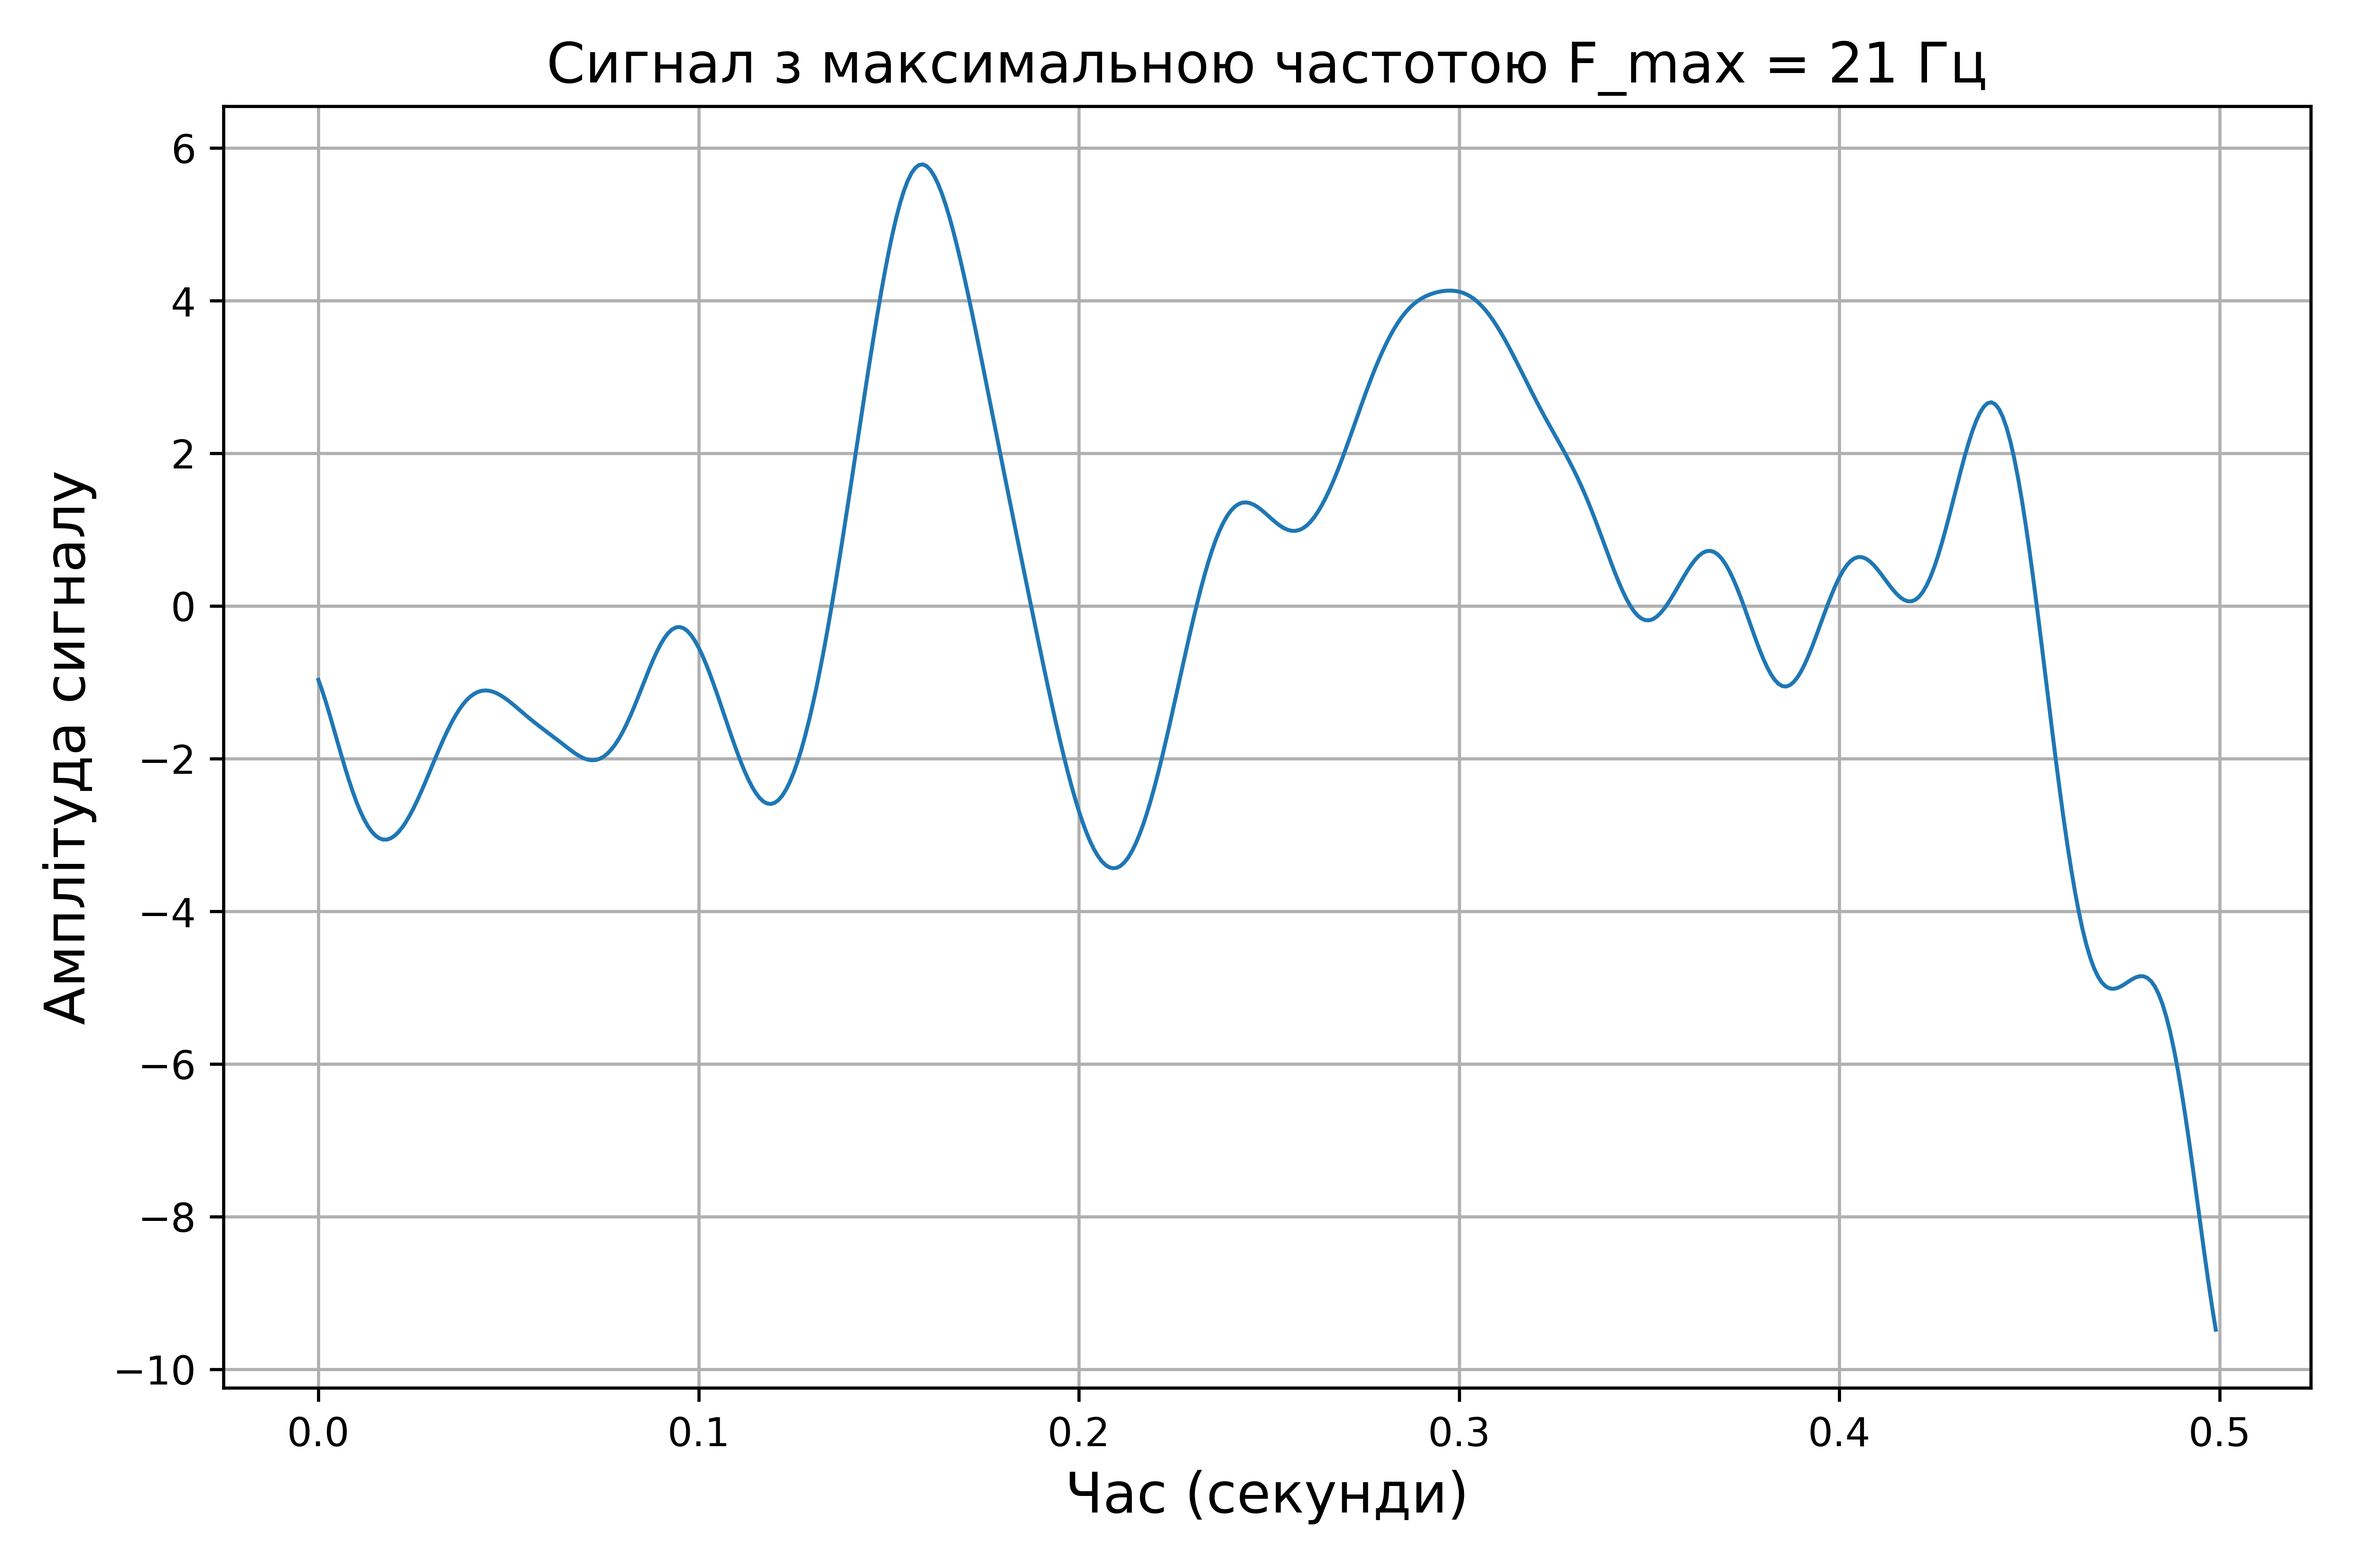
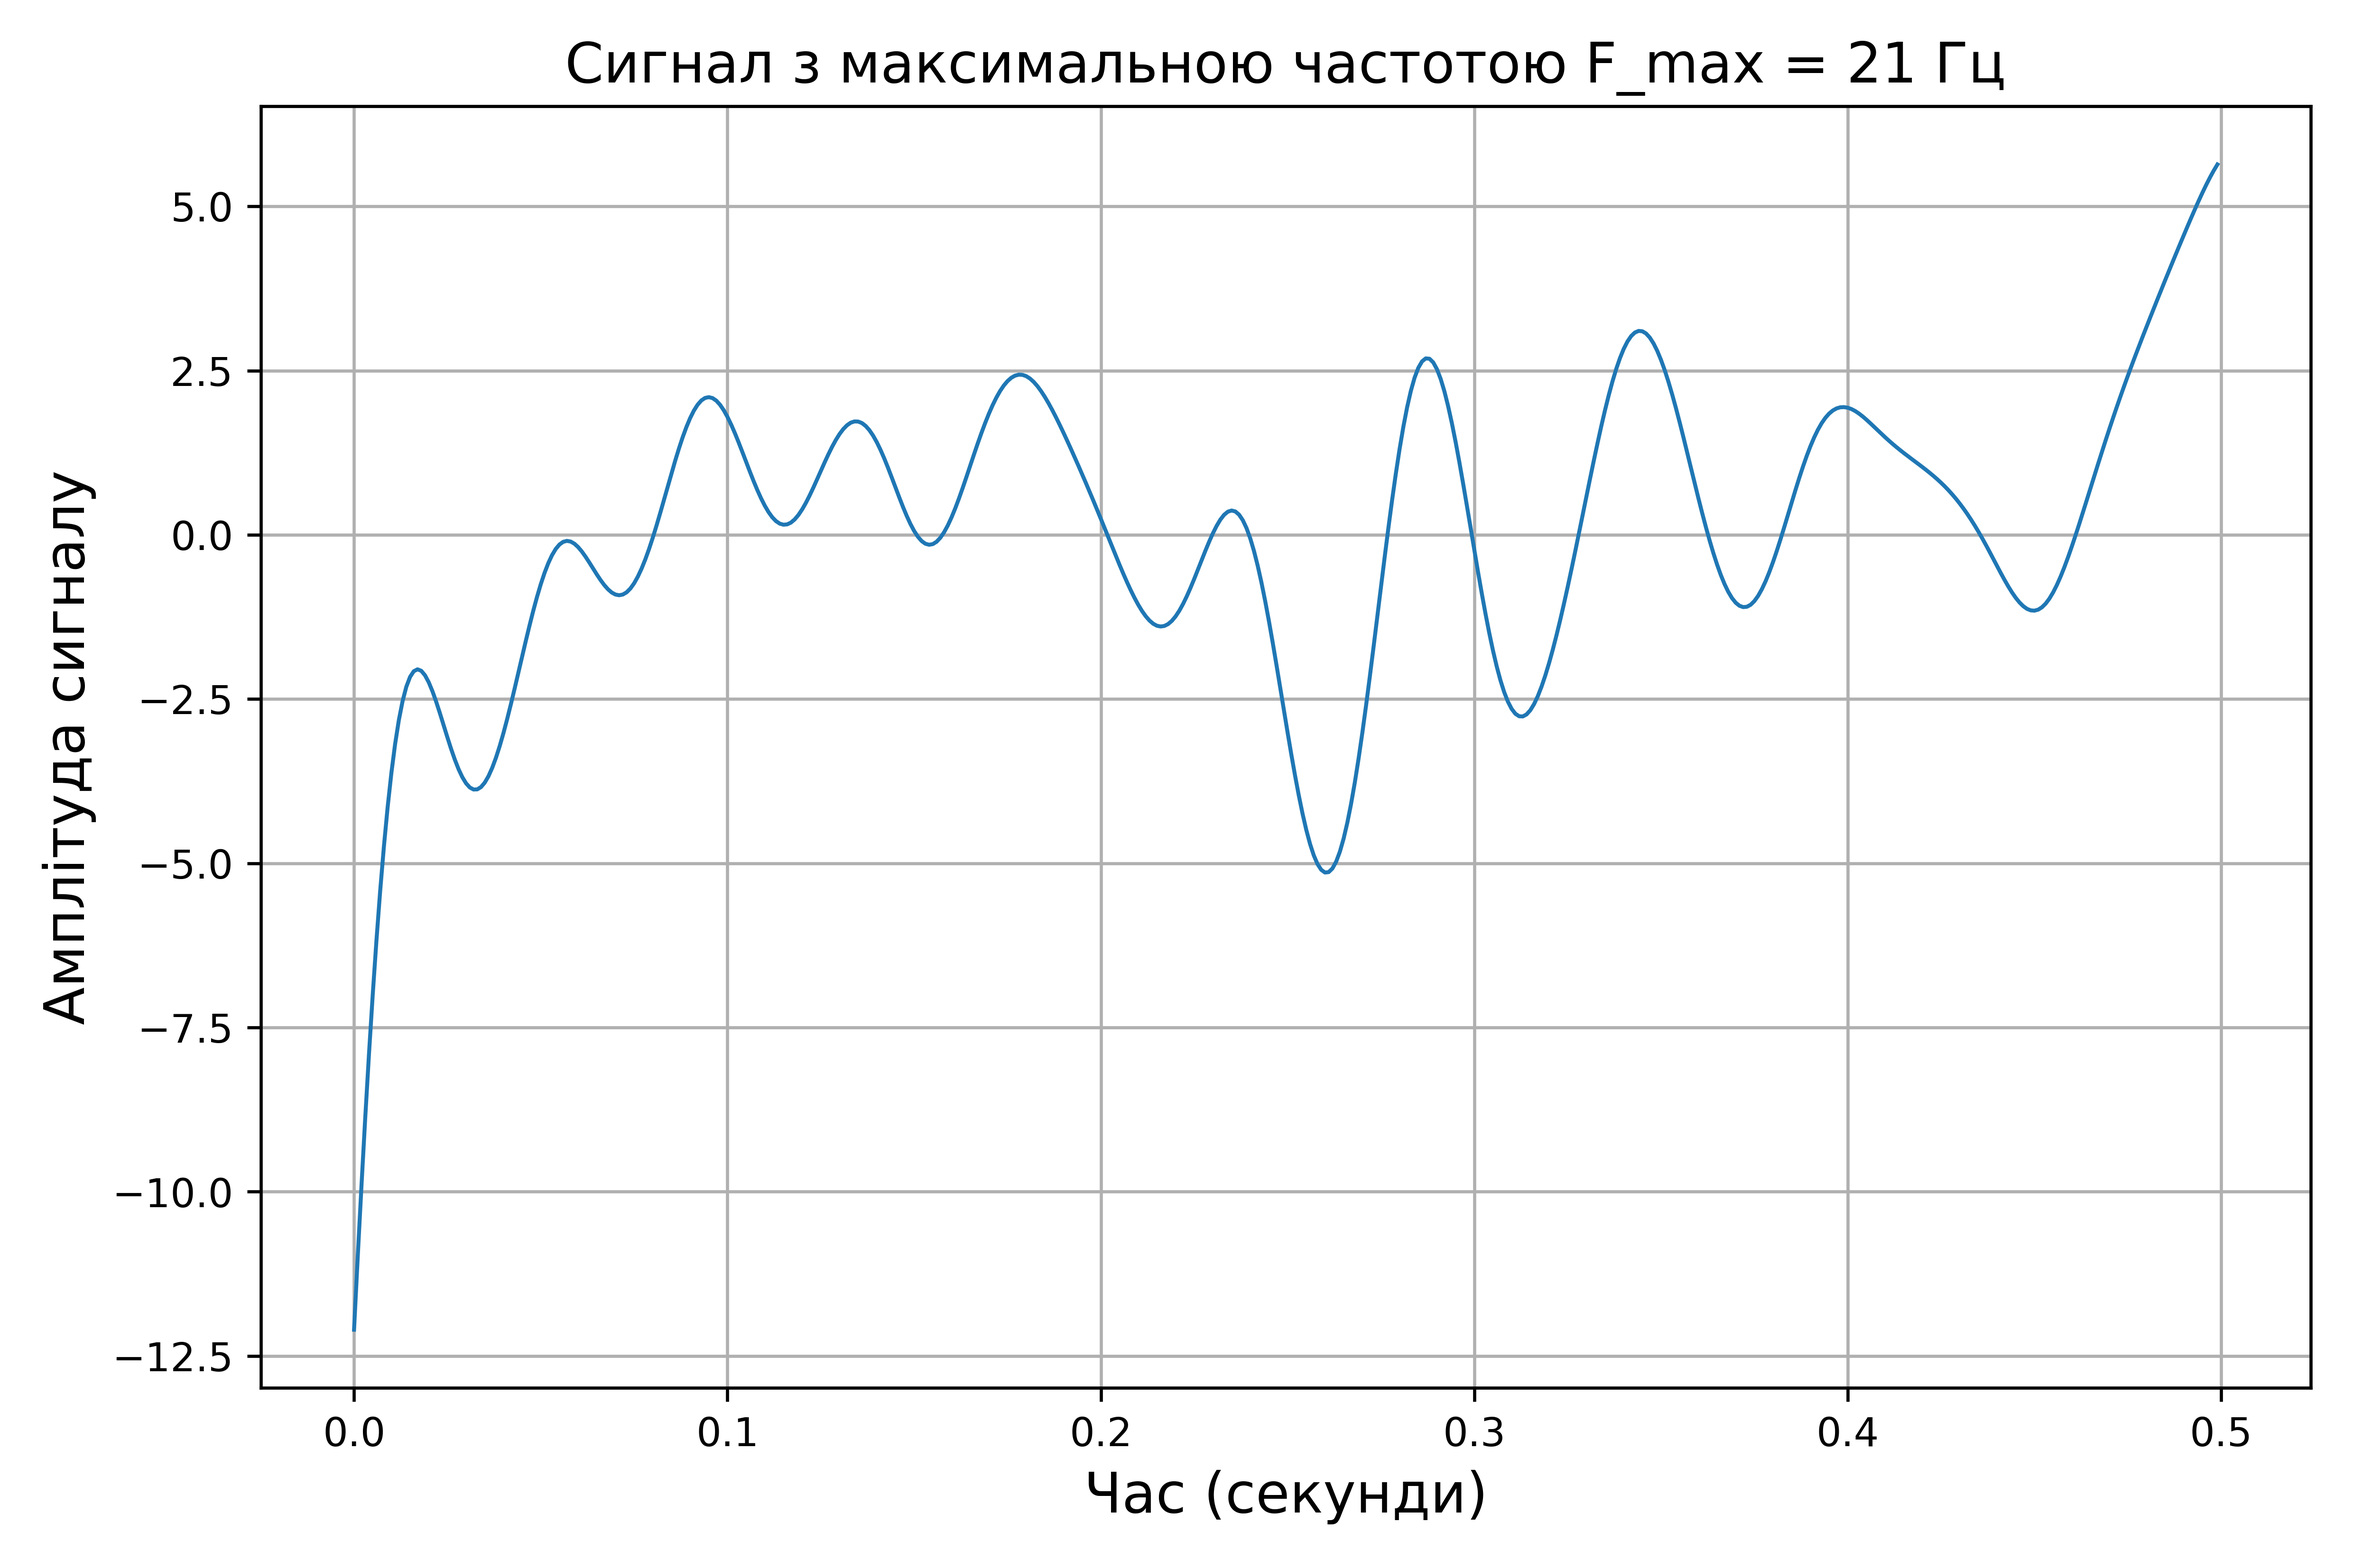
SignalProseccing 2-nd stage

diff --git a/SignalProcessing.py b/SignalProcessing.py
@@ -27,19 +27,39 @@ def plot_graph(x, y, title, xlabel, ylabel, filename):
     plt.show()
 
 
+def plot_subplots(x, y_list, title, xlabel, ylabel, filename, dt_values):
+    fig, ax = plt.subplots(2, 2, figsize=(21 / 2.54, 14 / 2.54))
+    s = 0
+
+    for i in range(2):
+        for j in range(2):
+            ax[i][j].plot(x, y_list[s], linewidth=1)
+            ax[i][j].set_title(f"Dt = {dt_values[s]}", fontsize=14)
+            ax[i][j].grid(True)
+            s += 1
+
+    fig.supxlabel(xlabel, fontsize=14)
+    fig.supylabel(ylabel, fontsize=14)
+    fig.suptitle(title, fontsize=14)
+    fig.tight_layout()
+    fig.savefig(filename, dpi=600)
+    plt.show()
+
+
 if __name__ == "__main__":
     # Варіант 10
     n = 500
     Fs = 1000
     F_max = 21
+    F_filter = 28
+    Dt_values = [2, 4, 8, 16]
 
     if not os.path.exists("figures"):
         os.makedirs("figures")
 
-    # Генерація та фільтрація сигналу
+    # ---------------- ПР2: генерація сигналу ----------------
     time_values, filtered_signal = generate_signal(n, F_max, Fs)
 
-    # Графік сигналу
     plot_graph(
         time_values,
         filtered_signal,
@@ -49,15 +69,11 @@ if __name__ == "__main__":
         f"./figures/Сигнал_Fmax_{F_max}Гц.png"
     )
 
-    # Розрахунок спектра
     spectrum = fft.fft(filtered_signal)
     spectrum_abs = np.abs(fft.fftshift(spectrum))
-
-    # Частотна вісь
     freq = fft.fftfreq(n, d=1 / Fs)
     freq_shifted = fft.fftshift(freq)
 
-    # Графік спектра
     plot_graph(
         freq_shifted,
         spectrum_abs,
@@ -65,4 +81,84 @@ if __name__ == "__main__":
         "Частота (Гц)",
         "Амплітуда спектру",
         f"./figures/Спектр_Fmax_{F_max}Гц.png"
+    )
+
+    # ---------------- ПР3 ----------------
+    discrete_signals = []
+    discrete_spectrums = []
+    restored_signals = []
+    variances = []
+    snr_ratios = []
+
+    for Dt in Dt_values:
+        discrete_signal = np.zeros(n)
+
+        for i in range(0, round(n / Dt)):
+            index = i * Dt
+            if index < n:
+                discrete_signal[index] = filtered_signal[index]
+
+        discrete_signals.append(discrete_signal.tolist())
+
+        discrete_spectrum = np.abs(fft.fftshift(fft.fft(discrete_signal)))
+        discrete_spectrums.append(discrete_spectrum.tolist())
+
+        w_restore = F_filter / (Fs / 2)
+        restore_filter = signal.butter(3, w_restore, 'low', output='sos')
+        restored_signal = signal.sosfiltfilt(restore_filter, discrete_signal)
+        restored_signals.append(restored_signal.tolist())
+
+        E1 = restored_signal - filtered_signal
+        variance_error = np.var(E1)
+        snr = np.var(filtered_signal) / variance_error
+
+        variances.append(variance_error)
+        snr_ratios.append(snr)
+
+    plot_subplots(
+        time_values,
+        discrete_signals,
+        "Сигнали з кроком дискретизації Dt = (2, 4, 8, 16)",
+        "Час (секунди)",
+        "Амплітуда сигналу",
+        "./figures/Дискретизовані сигнали.png",
+        Dt_values
+    )
+
+    plot_subplots(
+        freq_shifted,
+        discrete_spectrums,
+        "Спектри сигналів з кроком дискретизації Dt = (2, 4, 8, 16)",
+        "Частота (Гц)",
+        "Амплітуда спектру",
+        "./figures/Спектри дискретизованих сигналів.png",
+        Dt_values
+    )
+
+    plot_subplots(
+        time_values,
+        restored_signals,
+        "Відновлені аналогові сигнали з кроком дискретизації Dt = (2, 4, 8, 16)",
+        "Час (секунди)",
+        "Амплітуда сигналу",
+        "./figures/Відновлені сигнали.png",
+        Dt_values
+    )
+
+    plot_graph(
+        Dt_values,
+        variances,
+        "Залежність дисперсії від кроку дискретизації",
+        "Крок дискретизації",
+        "Дисперсія",
+        "./figures/Дисперсія від кроку дискретизації.png"
+    )
+
+    plot_graph(
+        Dt_values,
+        snr_ratios,
+        "Залежність співвідношення сигнал-шум від кроку дискретизації",
+        "Крок дискретизації",
+        "ССШ",
+        "./figures/ССШ від кроку дискретизації.png"
     )
